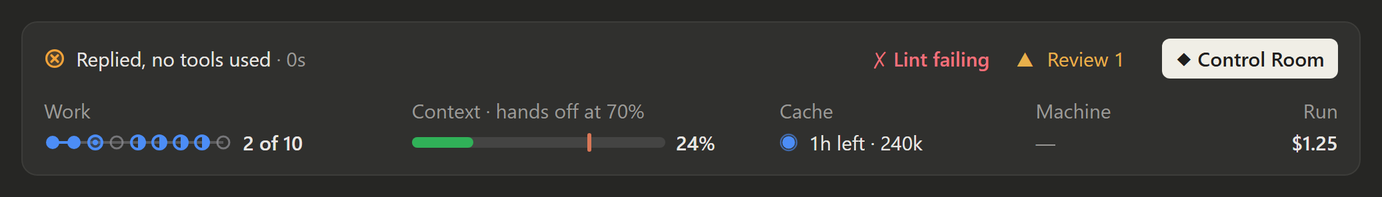
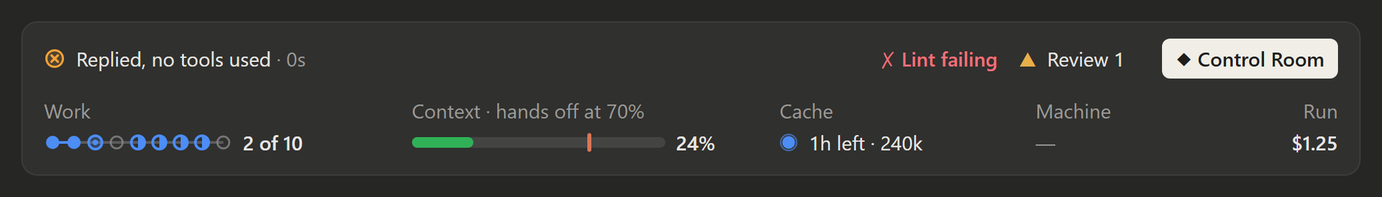
Project Sentinel 1.6.0: the status bar draws on Claude Code 2.1.289
CI on 2.1.289 failed for 36d60de: the chips that open Operations drew
their mark and words as Text inside a Button. Claude Code 2.1.289 takes a
Button's label only, refuses one with Text children, and skips the whole
ui.render with it, so on that engine the status bar vanished whenever a
chip showed. The words are now the Button's label and the mark sits
beside it in its tone, in a keyed Box (the Control Room button's pattern).

The tests now refuse a Button with anything but one string child in the
status bar and in every Operations page, on every engine (the guard fails
on the old chip with Claude Code 2.1.295 too). 430 of 430 pass on 2.1.295
and on 2.1.289 locally. 1.6.0 was not tagged before this.

Changed region(s): [[0.6223, 0.2437, 0.809, 0.3655]]

diff --git a/tests/opsui.test.ts b/tests/opsui.test.ts
@@ -32,6 +32,14 @@ const keys = (tree: unknown): string[] => {
   return out
 }
 
+/** Buttons with children other than one string: Claude Code 2.1.289 refuses them, and skips the whole tree. */
+const richButtons = (tree: unknown): string[] => {
+  const out: string[] = []
+  each(tree, n => {
+    if (n.type === 'Button' && (n.children ?? []).some(c => typeof c !== 'string')) out.push(keyOf(n))
+  })
+  return out
+}
 const bandProps = (bodyColumns: number) => ({ hasSurvey: false, isWorking: false, maxRows: 6, bodyColumns, scroll: { offset: 0, bodyRows: 6 }, view: {} })
 const paneProps = (bodyColumns: number, placement: 'dock' | 'inline' = 'dock') => ({ title: 'Control Room', isFocused: true, bodyColumns, placement, scroll: { offset: 0, bodyRows: 60 }, view: {} })
 
@@ -117,6 +125,7 @@ describe('Operations: the panel', () => {
         for (const card of ['card-ops-review', 'card-ops-queue', 'card-ops-watchers', 'card-ops-agents', 'card-ops-budget']) expect(all, `${surface} ${columns}: ${card}`).toContain(card)
         // The queue's field takes the row under its label: beside it, its text would squeeze the label into a column.
         if (surface !== 'mobile') expect(all, `${surface} ${columns}`).toContain('ops-queue-input-stacked')
+        expect(richButtons(tree), `${surface} ${columns}`).toEqual([])
         const text = textOf(tree)
         expect(text, `${surface} ${columns}`).toContain('Postgres or SQLite for the cache store?')
         expect(text).toContain('Carry the cache findings into the README')
@@ -235,7 +244,8 @@ describe('Operations: the status bar', () => {
       const chip = await band.find({ key: 'chip-review' })
       expect(chip, surface).toBeDefined()
       expect(chip?.type, surface).toBe('Button')
-      expect(textOf(await band.drawn())).toContain('Review 1')
+      expect(chip?.props?.label ?? textOf(chip), surface).toBe('Review 1')
+      expect(richButtons(await band.drawn()), surface).toEqual([])
       if (surface === 'desktop') expect(monospaceOffenders(await band.drawn(), 'status bar')).toEqual([])
       await band.press({ key: 'chip-review' })
       await w.clock.advance(300)

diff --git a/plugins/project-sentinel/hooks/ui/hud.tsx b/plugins/project-sentinel/hooks/ui/hud.tsx
@@ -302,27 +302,28 @@ function chipsThatFit(chips: readonly HudChip[], room: number): HudChip[] {
 
 /**
  * A chip: its mark in its tone, then its words. One that `opens` is a control: pressed, it opens
- * Activity → Operations (Review, a watcher's countdown, queued work, agents, the budget).
+ * Activity → Operations (Review, a watcher's countdown, queued work, agents, the budget). Its words
+ * are the Button's label and its mark sits beside it: Claude Code 2.1.289 takes a Button's label
+ * only, and refuses one with Text children by skipping the whole status bar.
  */
 function chipEl(kit: Kit, chip: HudChip): RenderElement {
-  const { Text, Button } = kit.ui
+  const { Box, Text, Button } = kit.ui
   const mark = chip.key === 'failing' ? G.fail : chip.tone === 'bad' || chip.tone === 'warn' ? G.warn : chip.key === 'quest' ? G.star : chip.key === 'watcher' ? G.wait : G.dot
-  const parts = [
-    <Text key={`chip-${chip.key}-mark`} {...toneProps(chip.tone)}>{`${mark} `}</Text>,
-    <Text key={`chip-${chip.key}-text`} {...toneProps(chip.tone === 'info' || chip.tone === 'accent' ? 'normal' : chip.tone)} bold={chip.tone === 'bad' ? true : undefined}>
-      {chip.text}
-    </Text>,
-  ]
+  const markEl = <Text key={`chip-${chip.key}-mark`} {...toneProps(chip.tone)}>{`${mark} `}</Text>
   if (chip.opens === 'ops') {
     return (
-      <Button key={`chip-${chip.key}`} label={chip.text} plain onPress={kit.actions.openOps}>
-        {parts}
-      </Button>
+      <Box key={`chip-${chip.key}-box`} flexDirection="row" flexShrink={0}>
+        {markEl}
+        <Button key={`chip-${chip.key}`} label={chip.text} plain onPress={kit.actions.openOps} />
+      </Box>
     )
   }
   return (
     <Text key={`chip-${chip.key}`} wrap="truncate-end">
-      {parts}
+      {markEl}
+      <Text key={`chip-${chip.key}-text`} {...toneProps(chip.tone === 'info' || chip.tone === 'accent' ? 'normal' : chip.tone)} bold={chip.tone === 'bad' ? true : undefined}>
+        {chip.text}
+      </Text>
     </Text>
   )
 }

diff --git a/README.md b/README.md
@@ -150,7 +150,7 @@ photographed on Desktop yet.</sub>
 
 <p align="center">
   <img src="docs/images/cli-status-bar-sleeping.png" alt="The terminal status bar while the watcher parks the run: Kit curled up asleep with zZ above it; the headline reads Sleeping until 17:41, S-002 result, fresh wake, no keep-alive; below, WATCHER with a clock and 1h 55m, and RUN $0.00"><br>
-  <img src="docs/images/desktop-status-bar-review.png" alt="The Desktop status bar after a turn, as the preview draws it, with an amber Review 1 chip beside Lint failing and the Control Room button"><br>
+  <img src="docs/images/desktop-status-bar-review.png" alt="The Desktop status bar after a turn, as the preview draws it, with a Review 1 chip and its amber mark beside Lint failing and the Control Room button"><br>
   <img src="docs/images/desktop-status-bar-sleeping.png" alt="The Desktop status bar while a watcher holds the cache, as the preview draws it: Sleeping until 17:34, S-002 result, cache held warm; the Cache cell reads held warm, 240k, and the fourth cell is the Watcher, 2h, 17:34">
 </p>
 
@@ -307,7 +307,7 @@ live in the panel.
 | Item | Meaning |
 | --- | --- |
 | `◎ Linting · step 3 of 4` | **The headline**: what the run is doing, with a mark for its state. While a turn runs: the milestone under way in Claude's words, else the running call, else `Thinking`; a check running or a milestone being verified is `◎`; a call past 20 seconds adds its time; `◆ Waiting for you to approve: git push` while a call set to *Ask* waits for your answer. Between turns, what the run waits for comes first: `◷ Waiting for the test run` (a background job), `◷ Waiting to check back · wakes at 06:12` (a scheduled wake-up), `⊘ Blocked: …` (something only you can give), `◆ Waiting for your answer` (Claude asked you something). `◆ Needs you · 1 decision` (a decision Claude left blocks the run), `◆ Watcher due: S-002 result` (a watcher waits for you), `◷ Sleeping until 14:00 · S-002 result` (a watcher parks the run, with whether the cache is held warm or the wake is fresh). Otherwise what the last turn did in counted words (`✓ Changed 4 files · Ran tests 3×, passing after a fix`), `✓ All 6 milestones done`, or before the first turn the run's objective (`○ Ready` without one). A handoff under way reads `↻ Writing the handoff notes`. |
-| `▲ RAM 83%` | **Chips**: only what needs a look, the most pressing first. `✗ Lint failing` (a check failing, by name), `▲ 2 issues` (calls that need a look), `Kept going ×1` (the lazy-exit guard continued the turn), `▲ CPU 91%` or `▲ RAM 92%` near or over a ceiling (the terminal; Desktop has a Machine cell), `2 agents`, `★ Lv 4` with the Quest log style. The orchestration layer's chips are buttons that open Activity → Operations: `▲ Review 2` (amber: decisions waiting for you), `◷ Watcher 1h 42m` (a watcher armed while the run is not asleep), `● Queued 3` (queued work due when the turn ends), `▲ Cost $25.00 of $30` (the run budget near or at a limit). None shows while there is nothing to say. |
+| `▲ RAM 83%` | **Chips**: only what needs a look, the most pressing first. `✗ Lint failing` (a check failing, by name), `▲ 2 issues` (calls that need a look), `Kept going ×1` (the lazy-exit guard continued the turn), `▲ CPU 91%` or `▲ RAM 92%` near or over a ceiling (the terminal; Desktop has a Machine cell), `2 agents`, `★ Lv 4` with the Quest log style. The orchestration layer's chips are buttons that open Activity → Operations, the mark in its color: `▲ Review 2` (an amber mark: decisions waiting for you), `◷ Watcher 1h 42m` (a watcher armed while the run is not asleep), `● Queued 3` (queued work due when the turn ends), `▲ Cost $25.00 of $30` (the run budget near or at a limit). None shows while there is nothing to say. |
 | `◆ Control Room` | Opens or closes the panel: a filled button, in Claude orange while the panel is open (`◆ Open` or `◆ Close` when the bar is narrow). |
 | `WORK ●━●━◎─○ 2/4` | The run's milestones, done of total, from Claude's own task list: `●` done, `◉` under way, `◎` being verified, `◌` waiting or blocked (amber), `○` to come. It carries across handoffs, so it keeps climbing while Context starts over. |
 | `CONTEXT ▇▇▇▇█▇▇ 47% · hands off 80%` | How much of the context window is in use: a solid bar, green, amber near the handoff point and red past it (with Autopilot off, against 90% of the window), and the handoff point as an orange notch. It starts over after a handoff, and a handoff under way says so beside it (`Handoff soon`, `Writing the handoff`, `Starting fresh`, `Resuming`, `Waiting for you`). |

diff --git a/CHANGELOG.md b/CHANGELOG.md
@@ -91,6 +91,12 @@ and nothing of an ended run leaks into a new one. 430 tests.
   verified to fail without the fix). An immediate write now supersedes the waiting one.
 - Kit sleeps or tends its fire while a watcher parks the run even in a context with no turn yet,
   ahead of the fresh context's walk-in.
+- **The status bar on Claude Code 2.1.289.** The chips that open Operations drew their mark and
+  words as styled text inside a button. Claude Code 2.1.289 takes a button's label only, refuses one
+  with anything inside, and then skips the whole status bar: on that engine the bar vanished whenever
+  a chip showed (found by CI on 2.1.289 for the first push of 1.6.0, `36d60de`, before it was
+  tagged). The words are the button's label now, the mark beside it in its color; the tests refuse
+  such a button on every engine.
 - **"Some saved settings were invalid" for settings that were only incomplete.** Since 1.4.0,
   stored settings with no permissions group (written by hand or by a tool) were reported as repaired
   at each start until a setting was changed, though nothing in them was invalid: the check for a

diff --git a/docs/DESIGN.md b/docs/DESIGN.md
@@ -167,7 +167,9 @@ name (`✗ Lint failing`, red; not counted again as an issue), calls that need a
 (`▲ 2 issues`), the guard keeping Claude going, a busy machine in the terminal (`▲ RAM 92%`, amber
 near a ceiling, red at it; Desktop has its Machine cell instead), running agents, the Quest log's
 level. The orchestration layer adds four, each only while it has something to say, each a control
-that opens Activity → Operations: `▲ Review 2` (amber: decisions waiting for the person; when one
+that opens Activity → Operations: its mark in its tone, then its words as the button's label (Claude
+Code 2.1.289 takes a button's label only; a button with styled text inside is refused there, and the
+whole status bar with it). `▲ Review 2` (an amber mark: decisions waiting for the person; when one
 blocks the run the headline says it instead), the run budget near or at a limit, `◷ Watcher 1h 42m`
 (a watcher armed while the run is not asleep: Claude works, or the person does), and `● Queued 3`
 (queued work due when the turn ends, shown only while Claude works). There is no constant count:
